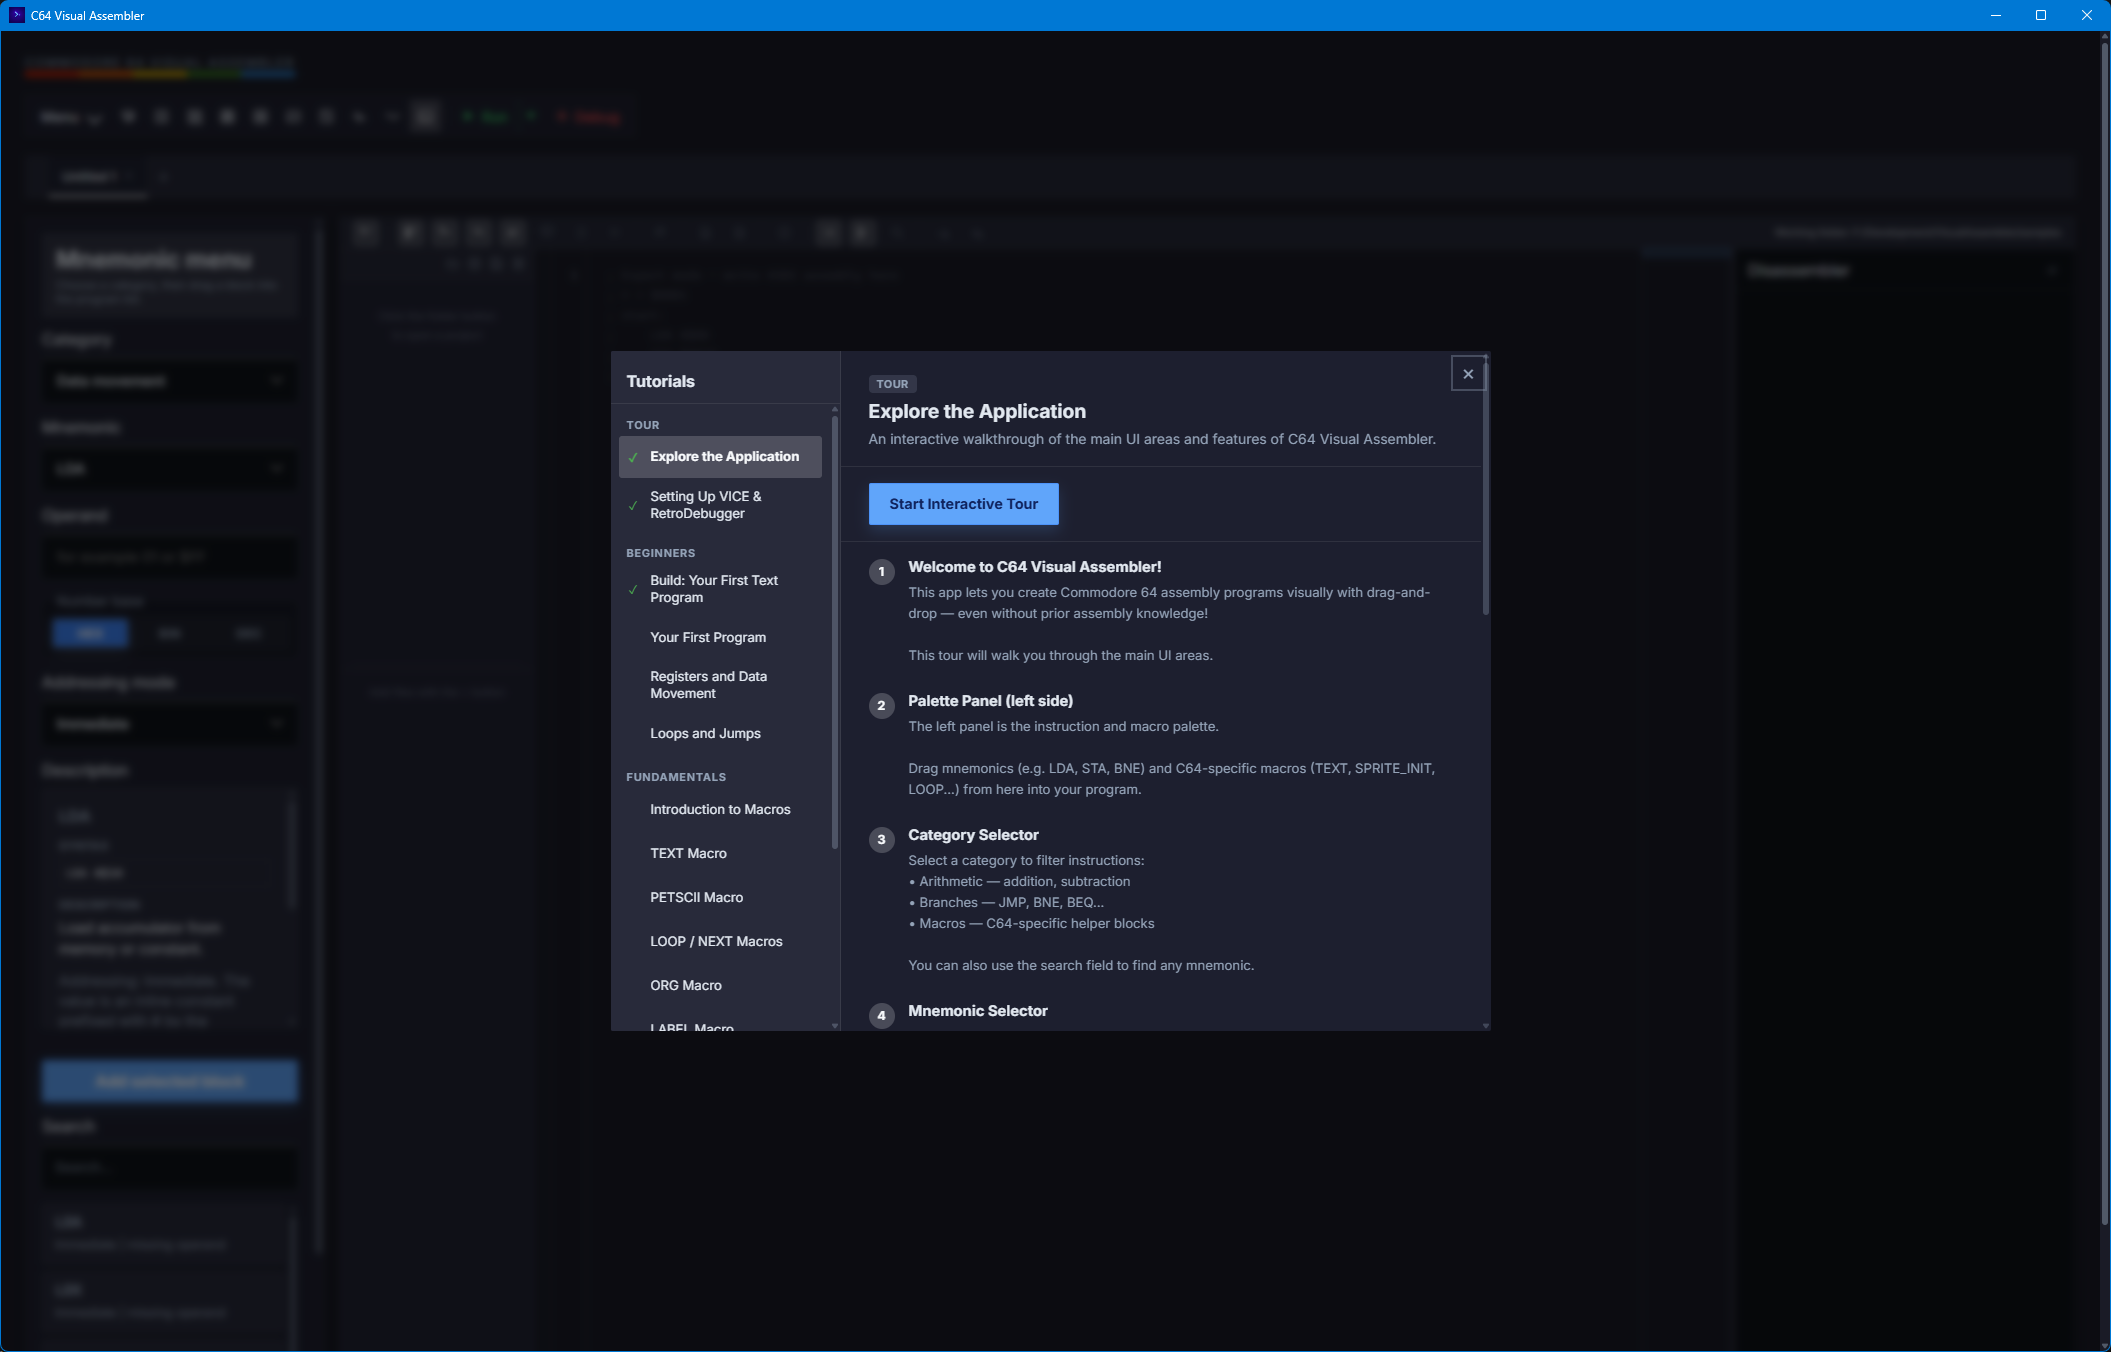
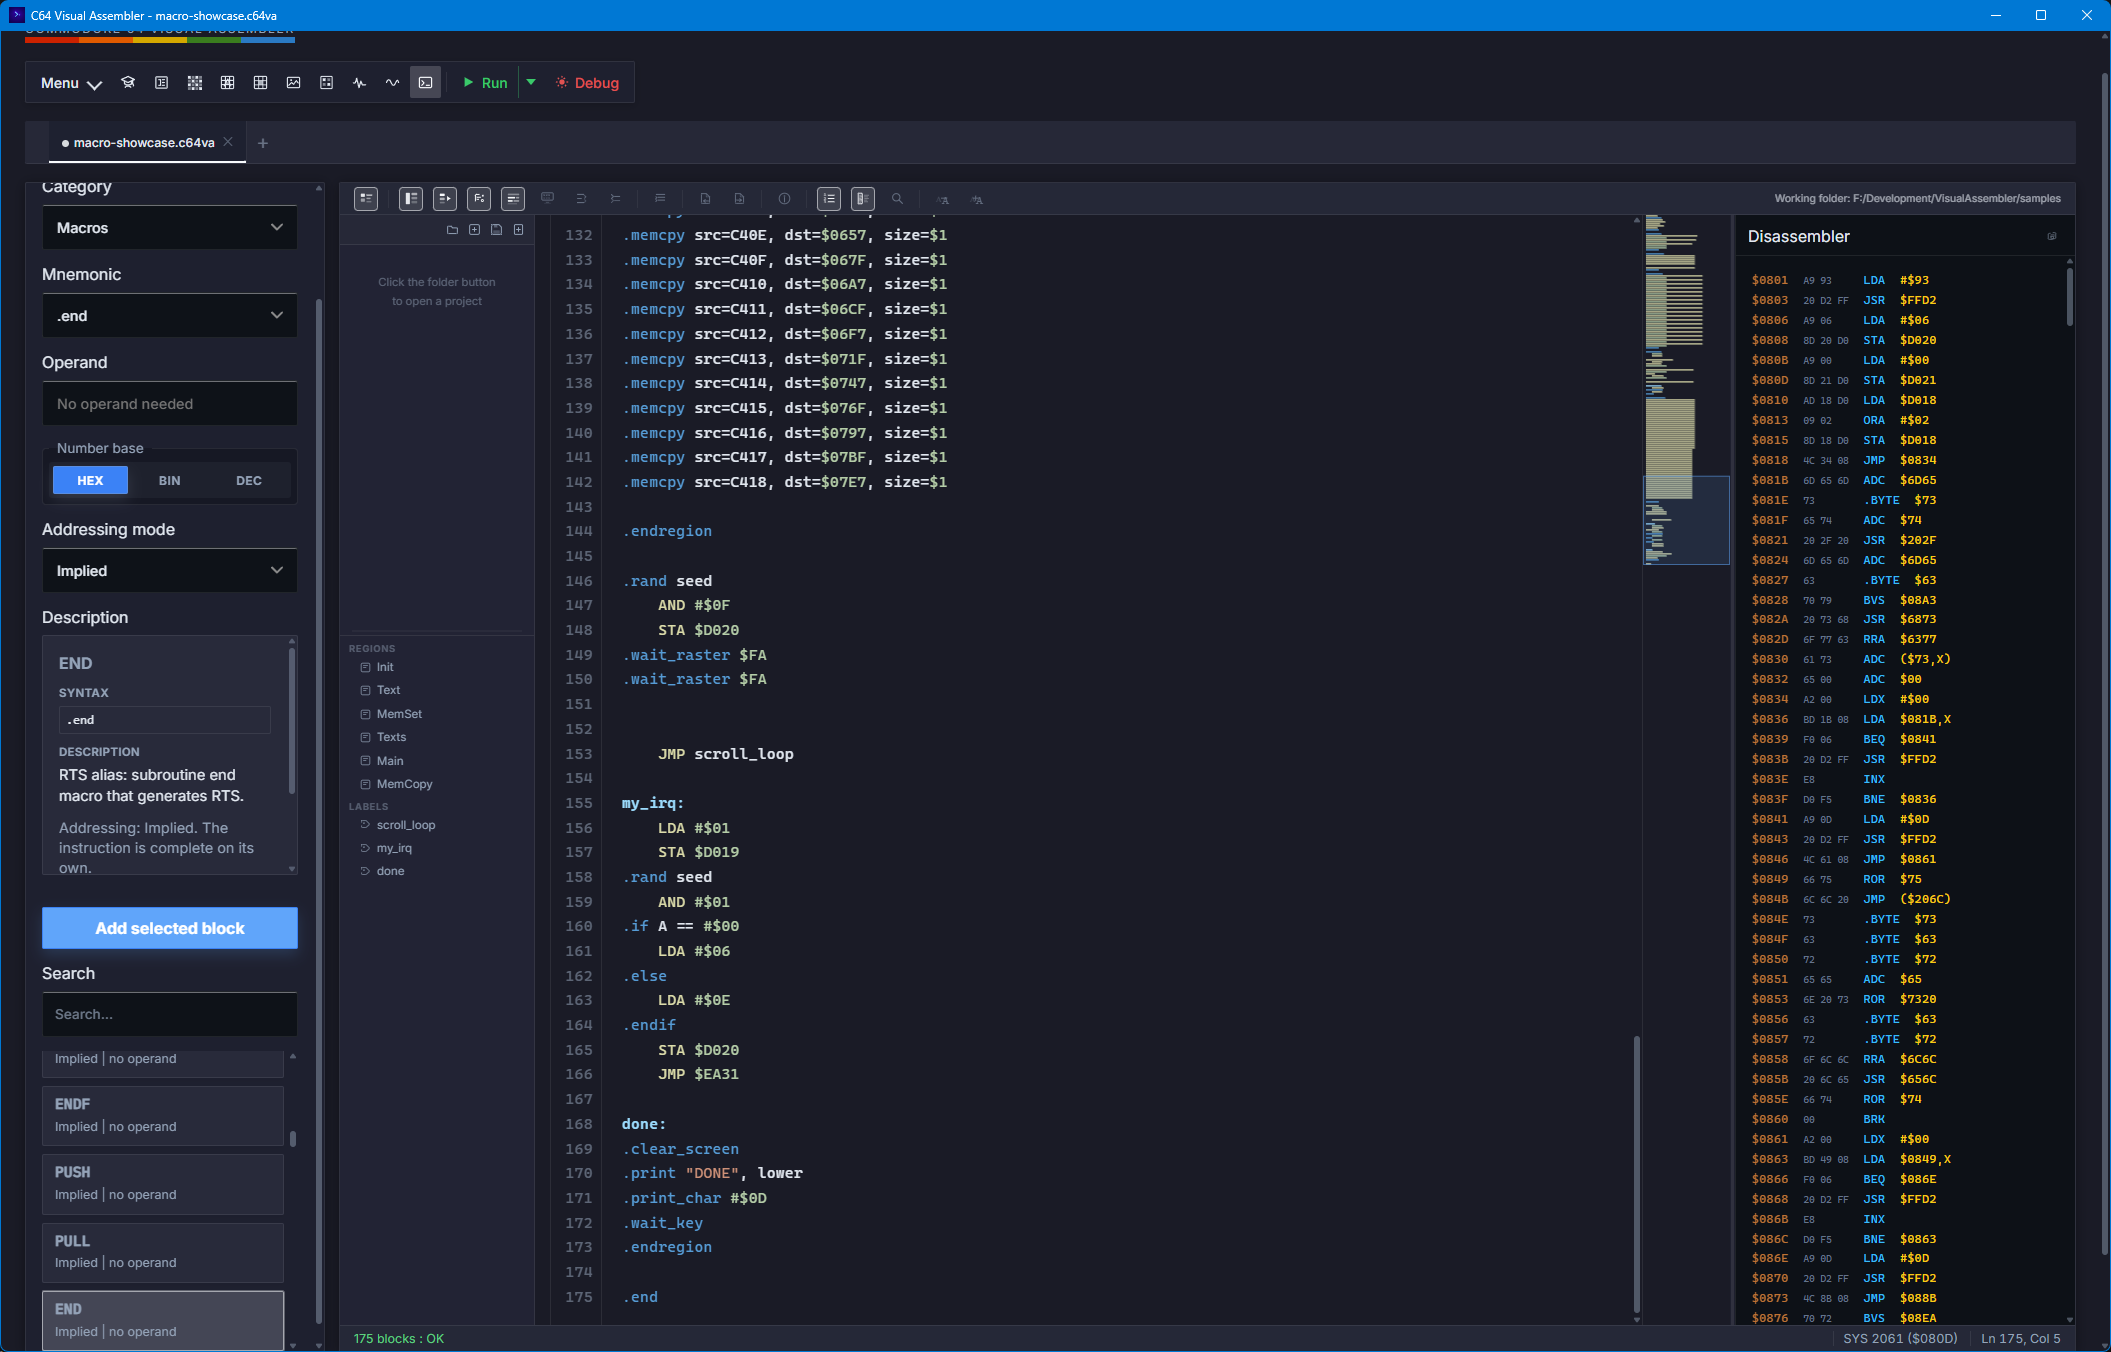
Update product site content and layout
- Hero: product box image, updated headline/subtitle, wider right column
- Nav download button styled yellow; GitHub link fixed, PayPal support button added
- Editors section: added ASM Editor and Char ROM browser tabs; fixed tab switching to use data-tab attribute
- New Hardware Integration section (C64 Ultimate, VICE, D64, Exomizer)
- Tutorials section uses tut-grid class for responsive layout
- Mobile nav improvements (wrap, smaller fonts)
- New images: box2.png, tutor.png, setup.png, code.png updated

diff --git a/va-product-site/index.html b/va-product-site/index.html
@@ -41,14 +41,16 @@ nav{background:#0d0d22;border-bottom:2px solid var(--brd);position:sticky;top:7p
 nav .sp{flex:1}
 .nav-link{color:var(--txt-dim);font-size:12px;letter-spacing:1px;padding:8px 14px;border:1px solid transparent;white-space:nowrap;transition:all .1s}
 .nav-link:hover{color:var(--txt-hi);border-color:var(--brd);background:rgba(100,100,200,.15)}
-.nav-dl{border-color:var(--brd-hi) !important;color:var(--txt-hi) !important}
-.nav-dl:hover{background:var(--scr) !important}
+.nav-dl{border-color:var(--ylw) !important;color:var(--ylw) !important}
+.nav-dl:hover{background:var(--ylw) !important;color:#000 !important}
 
 /* ── HERO ── */
-.hero{background:var(--scr);min-height:calc(100vh - 61px);display:grid;grid-template-columns:1fr 1fr;gap:0;position:relative;overflow:hidden}
+.hero{background:var(--scr);min-height:calc(100vh - 61px);display:grid;grid-template-columns:1fr 1.35fr;gap:0;position:relative;overflow:hidden}
 .hero::after{content:'';position:absolute;inset:0;background:repeating-linear-gradient(0deg,transparent,transparent 2px,rgba(0,0,0,.14) 2px,rgba(0,0,0,.14) 4px);pointer-events:none}
 .hero-left{padding:80px 60px 80px 80px;display:flex;flex-direction:column;justify-content:center;position:relative;z-index:1}
-.hero-right{position:relative;z-index:1;display:flex;align-items:center;justify-content:center;padding:40px 60px 40px 0}
+.hero-right{position:relative;z-index:1;display:flex;align-items:center;justify-content:center;padding:40px 40px 40px 0}
+.hero-right .screen-wrap{max-width:100%}
+.hero-box-img{width:100%;max-width:980px;display:block;filter:drop-shadow(0 0 40px rgba(80,80,255,.4))}
 
 .badge{display:inline-block;border:1px solid var(--brd-hi);color:var(--cyn);font-size:11px;letter-spacing:3px;padding:5px 14px;margin-bottom:28px}
 .hero-title{font-family:'C64Pro',monospace;font-size:clamp(22px,3.2vw,46px);color:var(--txt-hi);letter-spacing:3px;line-height:1.25;margin-bottom:20px}
@@ -82,6 +84,7 @@ hr.div{border:none;border-top:1px solid var(--brd)}
 
 /* ── ABOUT ── */
 .about-grid{display:grid;grid-template-columns:1fr 1fr;gap:72px;align-items:center}
+.tut-grid{display:grid;grid-template-columns:1fr 1fr;gap:72px}
 .about-right .screen-wrap{max-width:100%}
 .about-right .screen-wrap::before{content:'C64VA  ●  PROGRAM BLOCKS + ASM VIEW'}
 .feature-list{margin-top:28px;display:flex;flex-direction:column;gap:12px}
@@ -145,10 +148,15 @@ footer{background:#050510;border-top:1px solid var(--brd);padding:32px 80px}
 .foot-copy{font-size:11px;color:var(--txt-dim);letter-spacing:1px}
 
 @media(max-width:900px){
+  nav{padding:0 16px;height:auto;min-height:54px;flex-wrap:wrap;gap:0}
+  .nav-brand{padding:12px 0;font-size:11px}
+  .nav-link{font-size:10px;padding:6px 8px;letter-spacing:0}
   .hero{grid-template-columns:1fr}
-  .hero-right{display:none}
-  .hero-left{padding:60px 30px}
+  .hero-right{display:flex;padding:0 24px 48px;justify-content:center}
+  .hero-right .screen-wrap{max-width:100%}
+  .hero-left{padding:60px 30px 32px}
   .about-grid{grid-template-columns:1fr}
+  .tut-grid{grid-template-columns:1fr}
   .feat-grid{grid-template-columns:1fr}
   .spec-inner{grid-template-columns:repeat(2,1fr)}
   .sec,.editors-sec,.feat-inner,.spec-bar,.dl-bg,.foot-inner{padding-left:24px;padding-right:24px}
@@ -188,17 +196,15 @@ footer{background:#050510;border-top:1px solid var(--brd);padding:32px 80px}
       <div><span class="g">RUN</span><span class="cur"></span></div>
     </div>
     <div class="badge">V2.2.8 — LATEST RELEASE</div>
-    <h1 class="hero-title">WRITE C64 PROGRAMS<br><span>VISUALLY.</span></h1>
-    <p class="hero-sub">Drag-and-drop 6502 assembly blocks, see real-time ASM output, and run directly in VICE — no prior assembly knowledge required.</p>
+    <h1 class="hero-title">WRITE C64 PROGRAMS<br><span>BLOCKS OR MACRO-ASM.</span></h1>
+    <p class="hero-sub">Drag-and-drop 6502 assembly blocks or switch to a full text editor — see real-time ASM output and run directly in VICE.</p>
     <div class="hero-ctas">
       <a class="btn btn-y" href="#download">► DOWNLOAD FREE</a>
       <a class="btn btn-o" href="#editors">VIEW EDITORS</a>
     </div>
   </div>
   <div class="hero-right">
-    <div class="screen-wrap">
-      <img src="uploads/Screenshot 2026-08-01 191519.png" alt="C64 Visual Assembler — program blocks and ASM view">
-    </div>
+    <img class="hero-box-img" src="uploads/box2.png" alt="C64 Visual Assembler — product box">
   </div>
 </section>
 
@@ -283,18 +289,24 @@ footer{background:#050510;border-top:1px solid var(--brd);padding:32px 80px}
   <div class="sec-s">// VISUAL EDITORS</div>
   <h2 class="sec-t" style="margin-bottom:40px">BUILT-IN TOOLS FOR<br>EVERY C64 ASSET</h2>
   <div class="tabs">
-    <div class="tab on" onclick="showTab('prog')">PROGRAM</div>
-    <div class="tab" onclick="showTab('sid')">SID MUSIC</div>
-    <div class="tab" onclick="showTab('sprite')">SPRITES</div>
-    <div class="tab" onclick="showTab('map')">TILEMAP</div>
-    <div class="tab" onclick="showTab('hires')">GRAPHICS</div>
-    <div class="tab" onclick="showTab('curve')">CURVES</div>
-    <div class="tab" onclick="showTab('char')">CHARACTERS</div>
-    <div class="tab" onclick="showTab('canvas')">CHARSET CANVAS</div>
+    <div class="tab on" data-tab="prog" onclick="showTab('prog')">PROGRAM</div>
+    <div class="tab" data-tab="code" onclick="showTab('code')">ASM EDITOR</div>
+    <div class="tab" data-tab="sid" onclick="showTab('sid')">SID MUSIC</div>
+    <div class="tab" data-tab="sprite" onclick="showTab('sprite')">SPRITES</div>
+    <div class="tab" data-tab="map" onclick="showTab('map')">TILEMAP</div>
+    <div class="tab" data-tab="hires" onclick="showTab('hires')">GRAPHICS</div>
+    <div class="tab" data-tab="curve" onclick="showTab('curve')">CURVES</div>
+    <div class="tab" data-tab="char" onclick="showTab('char')">CHARACTERS</div>
+    <div class="tab" data-tab="charrom" onclick="showTab('charrom')">CHAR ROM</div>
+    <div class="tab" data-tab="canvas" onclick="showTab('canvas')">CHARSET CANVAS</div>
   </div>
   <div class="tab-panel on" id="tab-prog">
     <img src="uploads/Screenshot 2026-08-01 191519.png" alt="Block program editor">
     <div class="tab-cap"><span class="tab-cap-t">BLOCK PROGRAM EDITOR + ASM VIEW</span><span class="tab-cap-d">DRAG BLOCKS FROM LEFT → COMPILE LIVE → RUN IN VICE</span></div>
+  </div>
+  <div class="tab-panel" id="tab-code">
+    <img src="uploads/code.png" alt="Expert ASM editor">
+    <div class="tab-cap"><span class="tab-cap-t">EXPERT MODE — FULL ASM TEXT EDITOR</span><span class="tab-cap-d">SYNTAX HIGHLIGHTING, LIVE ERROR FEEDBACK, FIND BAR, MINIMAP, REGIONS</span></div>
   </div>
   <div class="tab-panel" id="tab-sid">
     <img src="uploads/sided.png" alt="SID music editor">
@@ -318,11 +330,40 @@ footer{background:#050510;border-top:1px solid var(--brd);padding:32px 80px}
   </div>
   <div class="tab-panel" id="tab-char">
     <img src="uploads/chared.png" alt="Character editor">
-    <div class="tab-cap"><span class="tab-cap-t">CHARACTER EDITOR — 8×8 PIXEL CHARSET</span><span class="tab-cap-d">MONO & MULTICOLOR, CHARACTER MAP BROWSER, .BIN EXPORT</span></div>
+    <div class="tab-cap"><span class="tab-cap-t">CHARACTER EDITOR — 8×8 PIXEL CHARSET</span><span class="tab-cap-d">MONO & MULTICOLOR, SHIFT/FLIP TOOLS, .BIN EXPORT</span></div>
   </div>
-    <div class="tab-panel" id="tab-canvas">
+  <div class="tab-panel" id="tab-charrom">
+    <img src="uploads/charrom.png" alt="Character ROM browser">
+    <div class="tab-cap"><span class="tab-cap-t">CHARACTER ROM BROWSER — BUILT-IN C64 CHARSET</span><span class="tab-cap-d">BROWSE UPPERCASE/GRAPHICS AND LOWERCASE/UPPERCASE ROM CHARSETS</span></div>
+  </div>
+  <div class="tab-panel" id="tab-canvas">
     <img src="uploads/canvased.png" alt="Charset Canvas">
-    <div class="tab-cap"><span class="tab-cap-t">CHARACTER CANVAS EDITOR — 64×64 PIXEL CHARSET</span><span class="tab-cap-d">MONO & MULTICOLOR, CHARACTER MAP BROWSER, .BIN EXPORT</span></div>
+    <div class="tab-cap"><span class="tab-cap-t">CHARSET CANVAS — DRAW 256 CHARS AS ONE PICTURE</span><span class="tab-cap-d">PENCIL, SPRAY, SHAPE TOOLS — SAVE CHARSET + 16×16 SCREEN/COLOR MAP</span></div>
+  </div>
+</div>
+</div>
+
+<hr class="div">
+
+<!-- HARDWARE SETTINGS -->
+<div style="background:var(--bg);padding:80px 0">
+<div class="sec about-grid" style="padding-top:0;padding-bottom:0">
+  <div class="about-right">
+    <div class="screen-wrap" style="max-width:100%">
+      <div style="background:#111130;color:var(--txt-dim);font-size:10px;padding:7px 14px;letter-spacing:2px;border-bottom:1px solid var(--brd)">C64VA  ●  HARDWARE SETTINGS</div>
+      <img src="uploads/config.png" alt="Hardware Settings — C64 Ultimate support">
+    </div>
+  </div>
+  <div>
+    <div class="sec-s">// HARDWARE INTEGRATION</div>
+    <h2 class="sec-t">C64 ULTIMATE &<br>VICE SUPPORT</h2>
+    <p class="sec-d">Configure every hardware target from one settings panel. VICE, RetroDebugger, C64 Ultimate cartridge REST API, Exomizer compression and debug sidecar generation — all in one place.</p>
+    <div class="feature-list">
+      <div class="fi"><div class="fi-dot">►</div><div><b>C64 Ultimate</b> <span>— upload and run PRG directly on real hardware via the Ultimate REST API.</span></div></div>
+      <div class="fi"><div class="fi-dot">►</div><div><b>VICE + RetroDebugger</b> <span>— one-click launch with breakpoints, symbol files and monitor commands.</span></div></div>
+      <div class="fi"><div class="fi-dot">►</div><div><b>D64 disk images</b> <span>— build and run .d64 files via c1541, add extra files to the disk.</span></div></div>
+      <div class="fi"><div class="fi-dot">►</div><div><b>Exomizer</b> <span>— optional SFX crunch before launch to squeeze every byte.</span></div></div>
+    </div>
   </div>
 </div>
 </div>
@@ -331,7 +372,7 @@ footer{background:#050510;border-top:1px solid var(--brd);padding:32px 80px}
 
 <!-- TUTORIALS -->
 <div style="background:var(--scr-darker);padding:80px 0" id="docs">
-<div class="sec" style="display:grid;grid-template-columns:1fr 1fr;gap:72px;align-items:center">
+<div class="sec tut-grid" style="align-items:center">
   <div>
     <div class="sec-s">// LEARN</div>
     <h2 class="sec-t">INTERACTIVE<br>TUTORIALS</h2>
@@ -346,7 +387,7 @@ footer{background:#050510;border-top:1px solid var(--brd);padding:32px 80px}
   <div>
     <div class="screen-wrap">
       <div style="position:relative">
-        <img src="uploads/Screenshot 2026-08-01 191229.png" alt="Interactive tutorials" style="width:100%;display:block">
+        <img src="uploads/tutor.png" alt="Interactive tutorials" style="width:100%;display:block">
       </div>
     </div>
   </div>
@@ -378,8 +419,9 @@ footer{background:#050510;border-top:1px solid var(--brd);padding:32px 80px}
       </a>
     </div>
     <div class="dl-sub">OPEN SOURCE — MIT LICENSE — BUILT WITH TAURI + RUST</div>
-    <div style="margin-top:20px">
-      <a class="btn btn-o" href="https://github.com" style="font-size:12px;padding:10px 22px">► VIEW ON GITHUB</a>
+    <div style="margin-top:20px;display:flex;gap:14px;justify-content:center;flex-wrap:wrap">
+      <a class="btn btn-o" href="https://github.com/zstarczali/VisualAssembler" style="font-size:12px;padding:10px 22px">► VIEW ON GITHUB</a>
+      <a class="btn" href="https://paypal.me/ZsoltTarczali" target="_blank" rel="noopener" style="font-size:12px;padding:10px 22px;border-color:#0070ba;color:#0070ba">♥ SUPPORT DEVELOPMENT</a>
     </div>
   </div>
 </div>
@@ -401,9 +443,8 @@ footer{background:#050510;border-top:1px solid var(--brd);padding:32px 80px}
 
 <script>
 function showTab(id){
-  document.querySelectorAll('.tab').forEach((t,i)=>{
-    const ids=['prog','sid','sprite','map','hires','curve','char'];
-    t.classList.toggle('on',ids[i]===id);
+  document.querySelectorAll('.tab').forEach(t=>{
+    t.classList.toggle('on',t.dataset.tab===id);
   });
   document.querySelectorAll('.tab-panel').forEach(p=>{
     p.classList.toggle('on',p.id==='tab-'+id);
